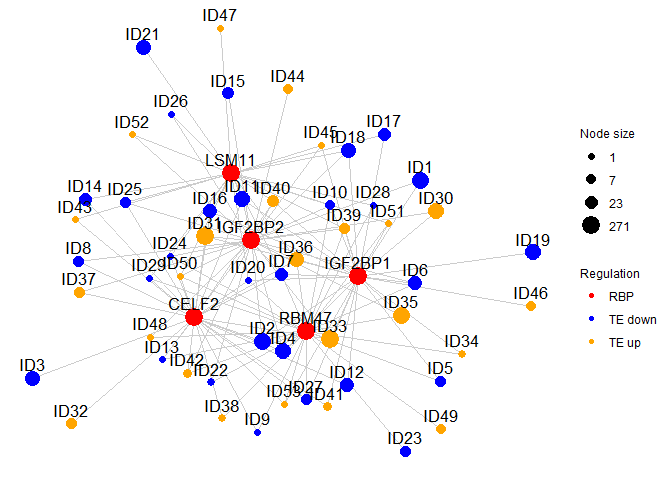
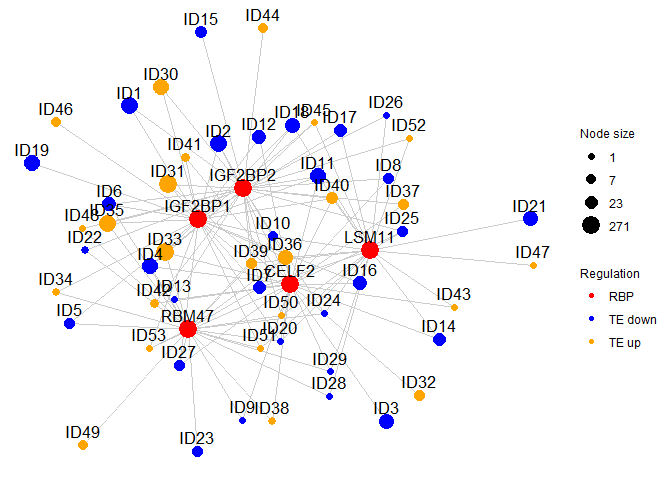
Commit 25/03/22

diff --git a/README.md b/README.md
@@ -488,6 +488,11 @@ A heatmap can be plotted also for miRNA
 
 ``` r
 HeatmapmiRNA(res=res)
+```
+
+![](man/figures/README-Scipt%20for%20miRNA%20heatmap-1.png)<!-- -->
+
+``` r
 
 
 # Suggestion to save the heatmap 
@@ -503,7 +508,7 @@ Network and GO plots are also available for miRNA
 
 ``` r
 # Network and GO
-Draw_network_by_group(rbp_lfc=c("hsa-mir-133a","hsa-mir-590","hsa-mir-29a","hsa-mir-30a","hsa-mir-155"),res=res,Targets=Targets,gene_groups=gene_groups,n=5,forwarded = F)
+Draw_network_by_group(rbp_lfc=c("hsa-mir-301a","hsa-mir-454","hsa-mir-544a","hsa-mir-106b","hsa-mir-148b"),res=res,Targets=Targets,gene_groups=gene_groups,n=5,forwarded = T)
 #> Scale for 'size' is already present. Adding another scale for 'size', which
 #> will replace the existing scale.
 #> Scale for 'colour' is already present. Adding another scale for 'colour',
@@ -513,7 +518,7 @@ Draw_network_by_group(rbp_lfc=c("hsa-mir-133a","hsa-mir-590","hsa-mir-29a","hsa-
 ![](man/figures/README-Scipt%20for%20miRNA%20plots-1.png)<!-- -->
 
 ``` r
-Plot_GO_RBP(rbp_of_interest="hsa-mir-155",tpm_ribo = tpm_ribo,Targets=Targets,gene_groups=gene_groups,GO_to_show=3)
+Plot_GO_RBP(rbp_of_interest="hsa-mir-301a",tpm_ribo = tpm_ribo,Targets=Targets,gene_groups=gene_groups,GO_to_show=3)
 #> 
 #> Building most specific GOs .....
 #>  ( 12282 GO terms found. )
@@ -526,7 +531,7 @@ Plot_GO_RBP(rbp_of_interest="hsa-mir-155",tpm_ribo = tpm_ribo,Targets=Targets,ge
 #> 
 #>           -- Classic Algorithm -- 
 #> 
-#>       the algorithm is scoring 135 nontrivial nodes
+#>       the algorithm is scoring 1097 nontrivial nodes
 #>       parameters: 
 #>           test statistic: fisher
 #> 
@@ -541,7 +546,7 @@ Plot_GO_RBP(rbp_of_interest="hsa-mir-155",tpm_ribo = tpm_ribo,Targets=Targets,ge
 #> 
 #>           -- Classic Algorithm -- 
 #> 
-#>       the algorithm is scoring 1785 nontrivial nodes
+#>       the algorithm is scoring 2735 nontrivial nodes
 #>       parameters: 
 #>           test statistic: fisher
 ```
@@ -708,7 +713,7 @@ save(miR_info,file = "data/miR_info.RData")
 
 ### HeLa stimulated by EGF data preparation
 
-The csv files used for pre-processing can be found in the example flder
+The csv files used for pre-processing can be found in the example folder
 of CLIPreg’s github page.
 
 ``` r
